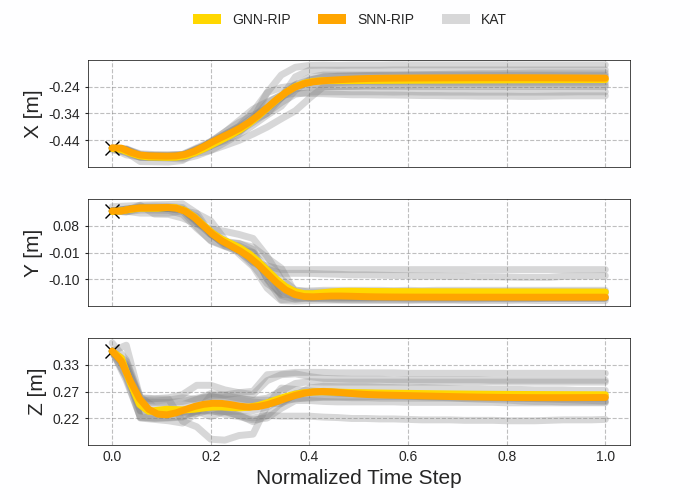
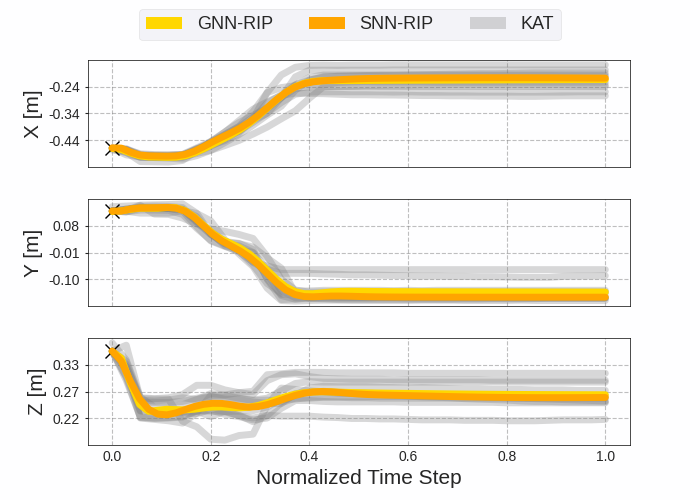
Make plot legend bigger

Changed region(s): [[0.21, 0.03, 0.81, 0.06]]

diff --git a/research/rip.html b/research/rip.html
@@ -280,7 +280,7 @@
         <div class="column is-two-thirds">
           <p class="has-text-centered" style="color: #888;"><strong>Success condition: </strong> at the end of the episode, the banana is picked up</p>
           <br>
-          <div class="columns">
+          <div  class="columns is-gapless">
             <div class="column">
               <img src="../static/img/rip/simulation/pick_banana_seed=15_num_demos=10_num_queries=10_SNN_2d_graph_gray_5.png" alt="MY ALT TEXT" style="width: 100%; height: auto;"/>
             </div>
@@ -330,7 +330,7 @@
         <div class="column is-two-thirds">
           <p class="has-text-centered" style="color: #888;"><strong>Success condition: </strong> at the end of the episode, the cube should be pushed out to the goal circle</p>
           <br>
-          <div class="columns">
+          <div  class="columns is-gapless">
             <div class="column">
               <img src="../static/img/rip/simulation/push_cube_seed=39_num_demos=3_num_queries=10_SNN_2d_graph_gray_5.png" alt="MY ALT TEXT" style="width: 100%; height: auto;"/>
             </div>
@@ -378,7 +378,7 @@
         <div class="column is-two-thirds">
           <p class="has-text-centered" style="color: #888;"><strong>Success condition: </strong>  at the end of the episode, the drawer is opened</p>
           <br>
-          <div class="columns">
+          <div  class="columns is-gapless">
             <div class="column">
               <img src="../static/img/rip/simulation/drawer_cabinet_seed=32_num_demos=10_num_queries=10_SNN_2d_graph_gray_5.png" alt="MY ALT TEXT" style="width: 100%; height: auto;"/>
             </div>
@@ -428,7 +428,7 @@
         <div class="column is-two-thirds">
           <p class="has-text-centered" style="color: #888;"><strong>Success condition: </strong>  at the end of the episode, the cabinet is closed completely</p>
           <br>
-          <div class="columns">
+          <div  class="columns is-gapless">
             <div class="column">
               <img src="../static/img/rip/simulation/close_cabinet_door_seed=38_num_demos=5_num_queries=10_SNN_2d_graph_gray_5.png" alt="MY ALT TEXT" style="width: 100%; height: auto;"/>
             </div>
@@ -477,14 +477,20 @@
         <div class="column is-two-thirds">
           <p class="has-text-centered" style="color: #888;"><strong>Success condition: </strong> at the end of the episode, the faucet is rotated</p>
           <br>
-          <div class="columns">
-            <div class="column">
-              <img src="../static/img/rip/simulation/turn_faucet_seed=18_num_demos=10_num_queries=10_SNN_2d_graph_gray_5.png" alt="MY ALT TEXT" style="width: 100%; height: auto;"/>
+            <!-- 
+              The "gap" parameter in the inline style of the <div> element sets the spacing between child elements within the flex or grid container.
+              In this case, 'gap: -0.5rem;' attempts to set a negative gap of -0.5rem, which is not standard and may not be supported in all browsers.
+              Normally, "gap" should be a positive value to create space between columns or rows.
+              Negative values may lead to unexpected layout behavior or be ignored by the browser.
+            -->
+            <div class="columns is-gapless">
+              <div class="column">
+                <img src="../static/img/rip/simulation/turn_faucet_seed=18_num_demos=10_num_queries=10_SNN_2d_graph_gray_5.png" alt="MY ALT TEXT" style="width: 100%; height: auto;"/>
+              </div>
+              <div class="column">
+                <img src="../static/img/rip/simulation/turn_faucet_seed=18_num_demos=10_num_queries=10_SMM_2d_graph_tomato_5.png" alt="MY ALT TEXT" style="width: 100%; height: auto;"/>
+              </div>
             </div>
-            <div class="column">
-              <img src="../static/img/rip/simulation/turn_faucet_seed=18_num_demos=10_num_queries=10_SMM_2d_graph_tomato_5.png" alt="MY ALT TEXT" style="width: 100%; height: auto;"/>
-            </div>
-          </div>
         </div>
         <!-- Second column: 2x2 videos in one-third of the row -->
         <div class="column is-one-third">
@@ -524,7 +530,7 @@
         <div class="column is-two-thirds">
           <p class="has-text-centered" style="color: #888;"><strong>Success condition: </strong> at the end of the episode, the triangle should be accurately drawn</p>
           <br>
-          <div class="columns">
+          <div  class="columns is-gapless">
             <div class="column">
               <img src="../static/img/rip/simulation/draw_triangle_seed=14_num_demos=20_num_queries=10_SNN_2d_graph_gray_5.png" alt="MY ALT TEXT" style="width: 100%; height: auto;"/>
             </div>
@@ -573,12 +579,12 @@
         <div class="column is-two-thirds">
           <p class="has-text-centered" style="color: #888;"><strong>Success condition: </strong> at the end of the episode, the cube should be outside of the goal area</p>
           <br>
-          <div class="columns">
+          <div class="columns is-gapless">
             <div class="column">
-              <img src="../static/img/rip/simulation/push_pull_cube_seed=40_num_demos=15_num_queries=10_SNN_2d_graph_gray_5.png" alt="MY ALT TEXT" style="width: 100%; height: auto;"/>
+              <img src="../static/img/rip/simulation/push_pull_cube_seed=40_num_demos=15_num_queries=10_SNN_2d_graph_gray_5.png" alt="MY ALT TEXT" style="width: 120%; height: auto;"/>
             </div>
             <div class="column">
-              <img src="../static/img/rip/simulation/push_pull_cube_seed=40_num_demos=15_num_queries=10_SMM_2d_graph_tomato_5.png" alt="MY ALT TEXT" style="width: 100%; height: auto;"/>
+              <img src="../static/img/rip/simulation/push_pull_cube_seed=40_num_demos=15_num_queries=10_SMM_2d_graph_tomato_5.png" alt="MY ALT TEXT" style="width: 120%; height: auto;"/>
             </div>
           </div>
         </div>
